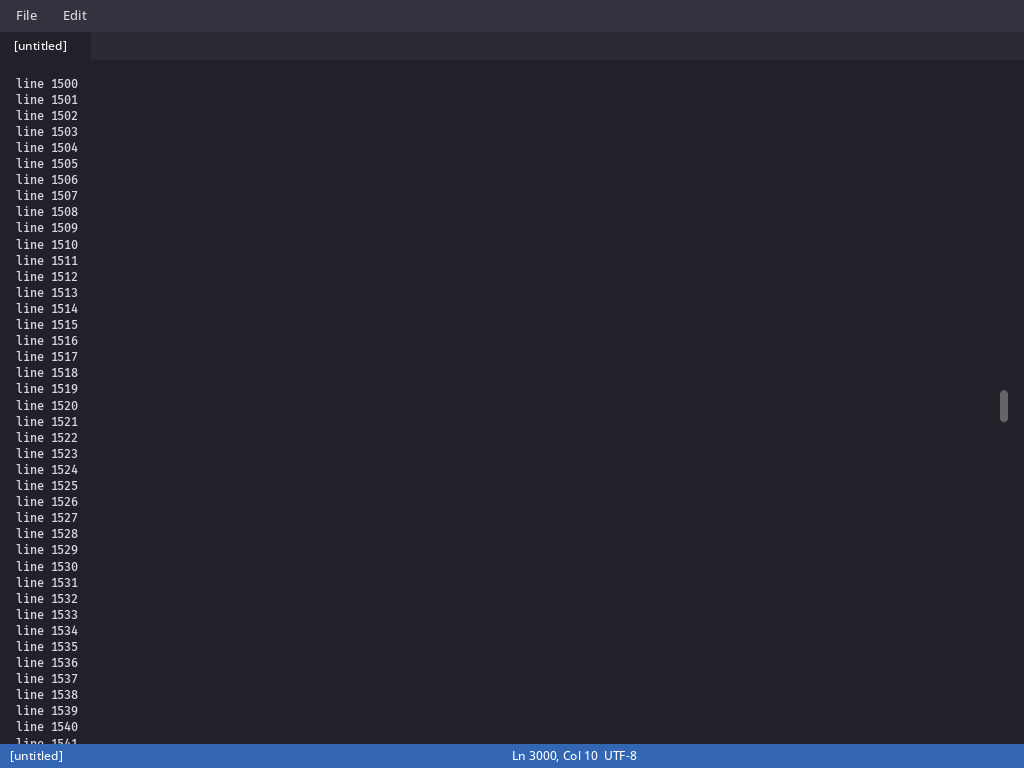
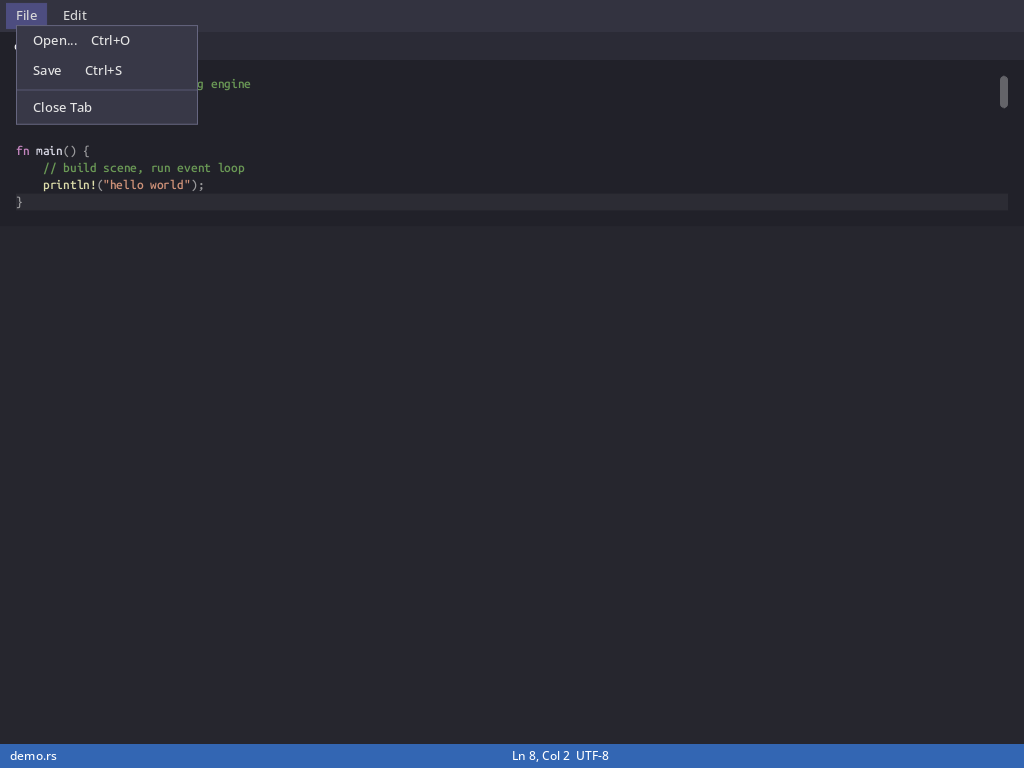
Add syntax highlighting for Rust files
Tokenizes lines into colored spans (keywords, strings, numbers, macros,
comments, lifetimes, punctuation) using a simple hand-rolled lexer.
Language is inferred from the buffer's file extension (.rs → Rust,
otherwise plain text). Lines use flex-row layout to position token spans
horizontally without affecting cursor hit-testing or paint logic.

diff --git a/src/highlight.rs b/src/highlight.rs
@@ -1,0 +1,162 @@
+// Simple syntax highlighter: tokenizes a line into (text, class) pairs.
+// "class" is a CSS class name like "tok-kw", "tok-str", or "" for plain text.
+
+pub fn tokenize_line<'a>(line: &'a str, lang: Lang) -> Vec<(&'a str, &'static str)> {
+    match lang {
+        Lang::Rust => tokenize_rust(line),
+        Lang::Unknown => vec![(line, "")],
+    }
+}
+
+#[derive(Clone, Copy, PartialEq)]
+pub enum Lang {
+    Rust,
+    Unknown,
+}
+
+pub fn lang_from_path(path: Option<&str>) -> Lang {
+    let ext = path
+        .and_then(|p| std::path::Path::new(p).extension())
+        .and_then(|e| e.to_str())
+        .unwrap_or("");
+    match ext {
+        "rs" => Lang::Rust,
+        _ => Lang::Unknown,
+    }
+}
+
+const RUST_KEYWORDS: &[&str] = &[
+    "as", "async", "await", "break", "const", "continue", "crate", "dyn",
+    "else", "enum", "extern", "false", "fn", "for", "if", "impl", "in",
+    "let", "loop", "match", "mod", "move", "mut", "pub", "ref", "return",
+    "self", "Self", "static", "struct", "super", "trait", "true", "type",
+    "union", "unsafe", "use", "where", "while",
+];
+
+fn tokenize_rust(line: &str) -> Vec<(&str, &'static str)> {
+    let mut result = Vec::new();
+    let bytes = line.as_bytes();
+    let len = bytes.len();
+    let mut i = 0;
+
+    while i < len {
+        // Line comment
+        if i + 1 < len && bytes[i] == b'/' && bytes[i + 1] == b'/' {
+            result.push((&line[i..], "tok-comment"));
+            break;
+        }
+
+        // String literal (double-quoted, no raw strings)
+        if bytes[i] == b'"' {
+            let start = i;
+            i += 1;
+            while i < len {
+                if bytes[i] == b'\\' {
+                    i += 2;
+                } else if bytes[i] == b'"' {
+                    i += 1;
+                    break;
+                } else {
+                    i += 1;
+                }
+            }
+            result.push((&line[start..i], "tok-str"));
+            continue;
+        }
+
+        // Char literal
+        if bytes[i] == b'\'' {
+            let start = i;
+            i += 1;
+            // lifetime or char?
+            let is_lifetime = i < len && (bytes[i].is_ascii_alphabetic() || bytes[i] == b'_')
+                && (i + 1 >= len || bytes[i + 1] != b'\'');
+            if is_lifetime {
+                while i < len && (bytes[i].is_ascii_alphanumeric() || bytes[i] == b'_') {
+                    i += 1;
+                }
+                result.push((&line[start..i], "tok-lifetime"));
+            } else {
+                while i < len {
+                    if bytes[i] == b'\\' {
+                        i += 2;
+                    } else if bytes[i] == b'\'' {
+                        i += 1;
+                        break;
+                    } else {
+                        i += 1;
+                    }
+                }
+                result.push((&line[start..i], "tok-str"));
+            }
+            continue;
+        }
+
+        // Number literal
+        if bytes[i].is_ascii_digit() || (bytes[i] == b'0' && i + 1 < len && (bytes[i+1] == b'x' || bytes[i+1] == b'b' || bytes[i+1] == b'o')) {
+            let start = i;
+            while i < len && (bytes[i].is_ascii_alphanumeric() || bytes[i] == b'_' || bytes[i] == b'.') {
+                i += 1;
+            }
+            result.push((&line[start..i], "tok-num"));
+            continue;
+        }
+
+        // Identifier or keyword
+        if bytes[i].is_ascii_alphabetic() || bytes[i] == b'_' {
+            let start = i;
+            while i < len && (bytes[i].is_ascii_alphanumeric() || bytes[i] == b'_') {
+                i += 1;
+            }
+            let word = &line[start..i];
+            // Check for macro call (word followed by '!')
+            let is_macro = i < len && bytes[i] == b'!';
+            // Check for type-like (starts uppercase)
+            let class = if RUST_KEYWORDS.contains(&word) {
+                "tok-kw"
+            } else if is_macro {
+                i += 1; // consume the '!'
+                "tok-macro"
+            } else if word.starts_with(|c: char| c.is_ascii_uppercase()) {
+                "tok-type"
+            } else {
+                ""
+            };
+            let end = i;
+            result.push((&line[start..end], class));
+            continue;
+        }
+
+        // Punctuation / symbols: consume a single char as plain or operator
+        let start = i;
+        i += 1;
+        // Absorb runs of operator chars
+        while i < len && !bytes[i].is_ascii_alphanumeric() && bytes[i] != b'_'
+            && bytes[i] != b'"' && bytes[i] != b'\'' && bytes[i] != b'/'
+        {
+            i += 1;
+        }
+        result.push((&line[start..i], "tok-punct"));
+    }
+
+    // Merge adjacent tokens of the same class to reduce node count.
+    let mut merged: Vec<(&str, &'static str)> = Vec::new();
+    for (text, class) in result {
+        if text.is_empty() { continue; }
+        if let Some(last) = merged.last_mut() {
+            if last.1 == class {
+                // Extend the slice: both are subslices of `line`, so we can reconstruct.
+                let last_start = last.0.as_ptr() as usize - line.as_ptr() as usize;
+                let this_start = text.as_ptr() as usize - line.as_ptr() as usize;
+                let this_end = this_start + text.len();
+                if last_start + last.0.len() == this_start {
+                    *last = (&line[last_start..this_end], class);
+                    continue;
+                }
+            }
+        }
+        merged.push((text, class));
+    }
+
+    merged
+}

diff --git a/src/main.rs b/src/main.rs
@@ -1,3 +1,4 @@
+mod highlight;
 mod render;
 mod screenshot;
 mod session;
@@ -576,13 +577,24 @@ fn update_editor_node(root: &mut Node, session: &Session) {
     let buf = session.active();
     let cursor = buf.cursor;
     let scroll = buf.scroll_line;
+    let lang = highlight::lang_from_path(buf.path.as_deref());
     let Some(editor) = root.get_element_by_id("editor") else { return };
     editor.clear_children();
     for i in scroll..buf.line_count() {
         let text = buf.line(i);
         let mut line_node = Node::element("div").with_class("line");
         if i == cursor.line { line_node = line_node.with_class("cursor-line"); }
-        line_node = line_node.with_child(Node::text(if text.is_empty() { " ".into() } else { text }));
+        if text.is_empty() {
+            line_node = line_node.with_child(Node::text(" "));
+        } else {
+            let tokens = highlight::tokenize_line(&text, lang);
+            for (tok_text, tok_class) in tokens {
+                let mut span = Node::element("span");
+                if !tok_class.is_empty() { span = span.with_class(tok_class); }
+                span = span.with_child(Node::text(tok_text.to_string()));
+                line_node = line_node.with_child(span);
+            }
+        }
         editor.append_child(line_node);
     }
     let scrollbar = Node::element("div").with_class("scrollbar-track").with_id("scrollbar-track")
@@ -668,6 +680,7 @@ fn close_all_menus(doc: &mut Document) {
 pub fn build_demo_scene() -> (Node, Stylesheet) {
     let sheet = build_stylesheet();
     let mut session = Session::open(":memory:").expect("in-memory session");
+    session.active_mut().path = Some("demo.rs".into());
     session.active_mut().insert("// vomvom — custom rendering engine\n\nmod render;\n\nfn main() {\n    // build scene, run event loop\n    println!(\"hello world\");\n}");
     let mut doc = Document::new(build_initial_document(&session));
     open_menu(&mut doc, "file");